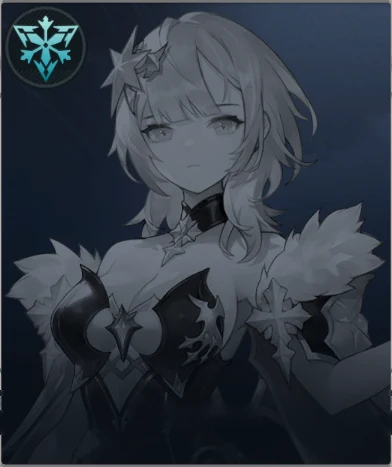
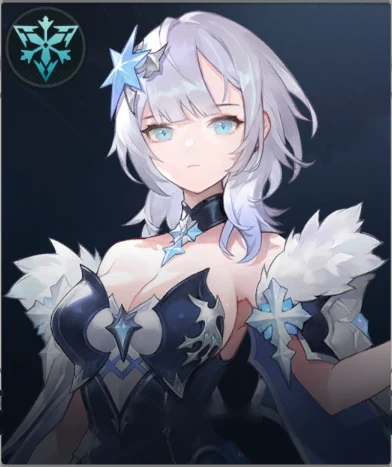
Frost results; Cerese portrait in colour
Claude-Session: https://claude.ai/code/session_01EEUGEyjkEXG6uzpCmHTwFz

diff --git a/AGENTS.md b/AGENTS.md
@@ -92,7 +92,7 @@ Change these in the HTML if needed:
 ## Data rules
 
 1. **Sources of truth:** hero skill data comes from the in-game codex; Karma stats, gear-set effects and the game's Recommended Combinations come from David's screenshots. If anything conflicts, the codex wins. Flag the conflict; don't guess.
-2. **Never invent numbers.** Status mechanics are only partly measured (see `DAMAGE_TESTS`): Poison, Bleed, Burn and Shock tick 5 times (at 0, 2.5, 5, 7.5 and 10 s), for 50/75/100% of the first applier's Attack at 1/2/3 stacks (max 3). Frost, Stun and other statuses are unverified. The only calculated values on the site are clearly labelled:
+2. **Never invent numbers.** Status mechanics are only partly measured (see `DAMAGE_TESTS`): Poison, Bleed, Burn and Shock tick 5 times (at 0, 2.5, 5, 7.5 and 10 s), for 50/75/100% of the first applier's Attack at 1/2/3 stacks (max 3). Frost doesn't tick (3 stacks Freeze the enemy, Frozen = +50% on hits); Airborne, Knockdown and Stun give +100% on hits; all hit bonuses add (see `DAMAGE_TESTS.findings`). The only calculated values on the site are clearly labelled:
    - **Skill levels below max:** Lv. 1 = max ÷ 1.75 times the measured multipliers (`SKILL_LEVEL_MULTIPLIERS`). Every level is measured; values can be 1 off the game because of rounding.
 3. Codex values are post-patch 1.1.0. Patch 1.1.2 changed nothing in the balance. The 1.1.0 notes list every skill's Lv. 1 multiplier before and after; × 175 they equal the codex max-level % (124 of 126 exact; the notes swap the names of Alex's Auto and Jump attacks, Brandish and Dive Kick, so the codex names are kept).
 4. **Dodge** (the `Dash` slot) can't be upgraded (always Lv.1) and does no damage: the hero's own skill window shows no damage value. The codex shows the jump attack's value next to it anyway. That number is kept out of the description and stored as the skill's `codexAttackPct`, which the page doesn't show. Don't put it back unless David confirms Dodge damage later in the game. Dash *attack* is a separate skill and does do damage.
